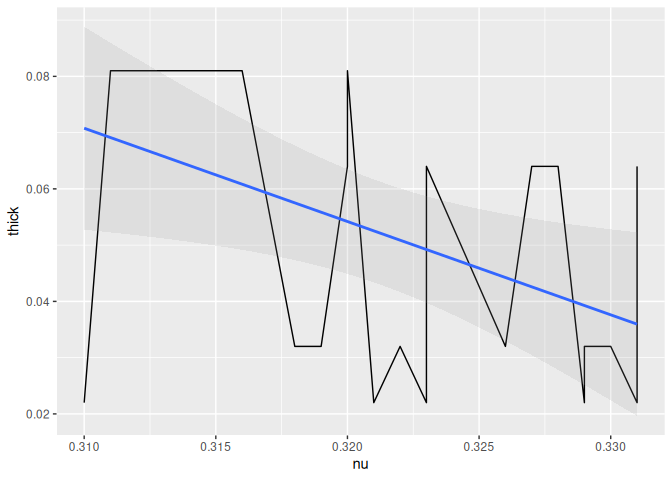
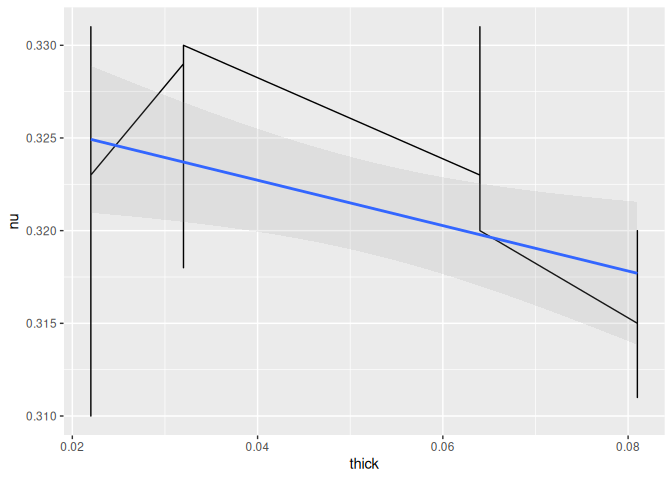
re-knit c03

diff --git a/challenges/c03-stang-assignment.md b/challenges/c03-stang-assignment.md
@@ -268,9 +268,13 @@ unique(df_stang_long$thick)
 **Observations**:
 
 - Is there “one true value” for the material properties of Aluminum?
-  - There are two values in the table to describe the material
-    properties of Aluminum. These are E (elasticity) and nu (Poisson’s
-    ratio).
+  - There is not one true value for the dataset. Material properties
+    like these are often assumed to be intensive, but our results seem
+    to say otherwise. Youngs Modulus, for instance, depends on
+    inter-molecular bonds, so it does vary slightly with thickness.
+    Additionally, the way they measured the data is a little
+    questionable. They changed their testing method for a few of the
+    samples. When you omit these data points, the variance decreases.
 - How many aluminum alloys are in this dataset? How do you know?
   - There is one. There is only one type in the alloy column.
 - What angles were tested?
@@ -289,7 +293,7 @@ unique(df_stang_long$thick)
 ``` r
 ## TASK: Investigate your question from q1 here
 df_stang_long %>% 
-  ggplot(aes(nu, thick)) +
+  ggplot(aes(thick, nu)) +
   geom_line() +
   geom_smooth(method = "lm", alpha = .15)
 ```
@@ -307,9 +311,8 @@ summary(lm(nu~thick, df_stang_long))$r.squared
 **Observations**:
 
 - At first, there appears to be a relatively steep trend line. However,
-  on closer inspection, the data seems to sporadic to be correlated.
-  Getting an r^2 value of 0.2030935 gives us a final verdict that there
-  is no correlation of statistical merit.
+  on closer inspection, the data seems to sporadic to be correlated. The
+  low r^2 indicates a very weak association between \`thick\` and \`nu’.
 
 ### **q4** Consider the following statement:
 
